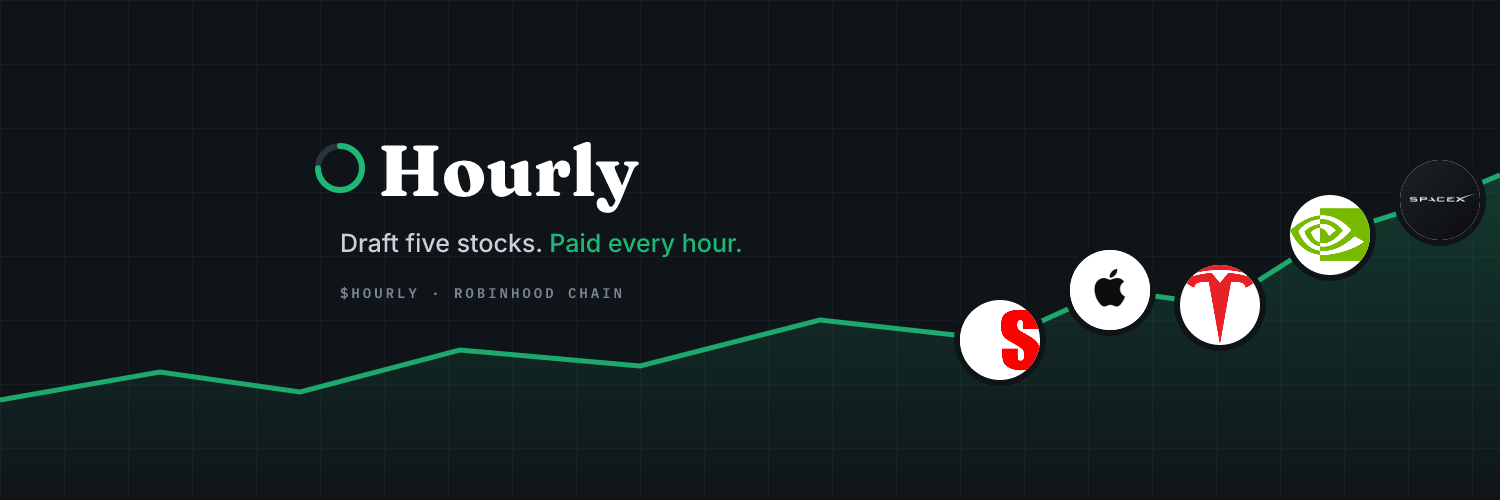
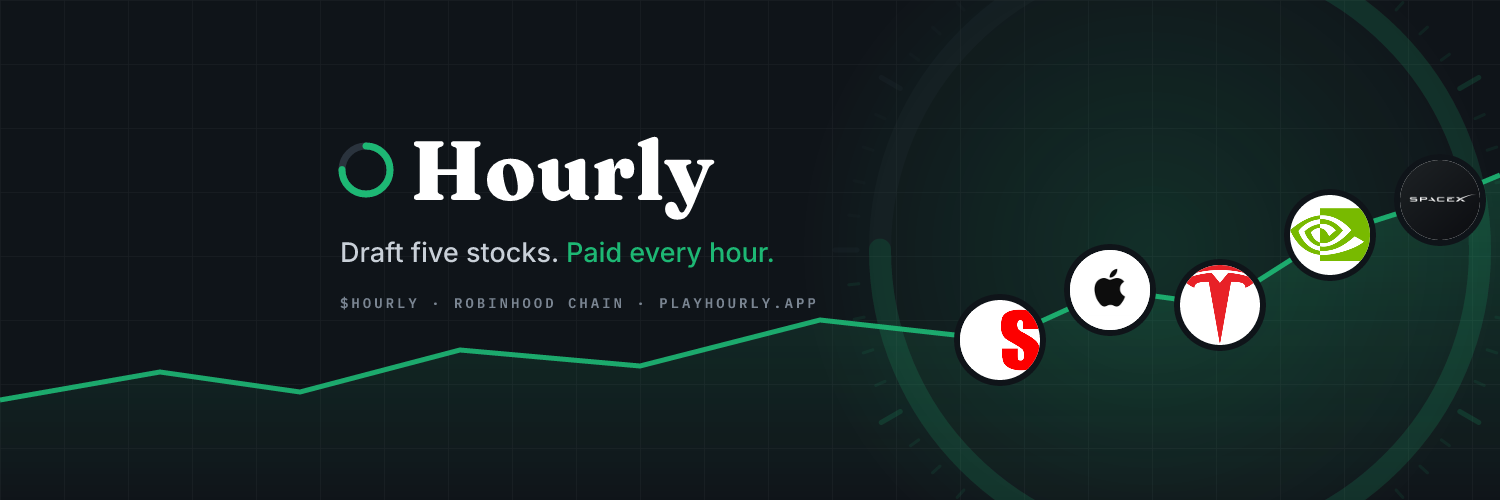
playhourly.app domain, Season one numbers, new Hourly marks

diff --git a/index.html b/index.html
@@ -8,7 +8,7 @@
 <link rel="icon" type="image/png" sizes="192x192" href="favicon-192.png">
 <meta property="og:title" content="Hourly">
 <meta property="og:description" content="Draft five stocks. Beat the chain. Paid every hour. A new round every hour on Robinhood Chain.">
-<meta property="og:image" content="https://fantasystockleague.app/og.png">
+<meta property="og:image" content="https://playhourly.app/og.png">
 <meta name="twitter:card" content="summary_large_image">
 <link rel="preconnect" href="https://fonts.googleapis.com">
 <link rel="preconnect" href="https://fonts.gstatic.com" crossorigin>
@@ -310,10 +310,10 @@
     <div class="board" data-pre>
       <div class="top"><span class="t">Round scoreboard</span><span class="live"><i></i>Opens at launch</span></div>
       <div class="rows">
-        <div class="cell"><div class="k">Pot</div><div class="v" id="s-pot">—</div></div>
-        <div class="cell"><div class="k">Portfolios in</div><div class="v" id="s-teams">—</div></div>
+        <div class="cell"><div class="k">Round 1 pot, seeded</div><div class="v" id="s-pot">100k</div></div>
+        <div class="cell"><div class="k">Portfolios in</div><div class="v" id="s-teams">0</div></div>
         <div class="cell next"><div class="ring"><svg width="64" height="64" viewBox="0 0 64 64"><circle class="bg" cx="32" cy="32" r="27"/><circle class="fg" id="ring-fg" cx="32" cy="32" r="27" stroke-dasharray="169.6" stroke-dashoffset="169.6"/></svg></div><div><div class="k">Next open</div><div class="v" id="s-next">--:--</div></div></div>
-        <div class="cell"><div class="k">Rounds paid</div><div class="v" id="s-paid">—</div></div>
+        <div class="cell"><div class="k">Rounds paid</div><div class="v" id="s-paid">0</div></div>
       </div>
       <p class="foot">Rounds run 24/7 because the pools never close. Scores come from Robinhood Chain pool prices. Every payout is a public transaction.</p>
     </div>
@@ -398,7 +398,7 @@
       <div class="rule"><div class="n">5</div><div><h3>Locked means locked</h3><p>Once a round opens, no swaps. Enter after :00 and you're in the next round, not this one. Ties go to the portfolio that entered first.</p></div></div>
       <div class="rule"><div class="n">6</div><div><h3>Everything is checkable</h3><p>The prize wallet is public, so the pot is visible all round. The scoring code is public, so anyone can rerun a round and get the same table. Payouts are automatic and every one is a transaction link, not a promise.</p></div></div>
     </div>
-    <p class="muted" style="margin-top:56px;font-size:14px;max-width:720px">Not available to US persons, in line with the stock tokens Hourly is scored on. Entry price and holder threshold are posted before rounds open and don't change mid-round.</p>
+    <p class="muted" style="margin-top:56px;font-size:14px;max-width:720px">Not available to US persons, in line with the stock tokens Hourly is scored on. Entry price and holder threshold are fixed for Season one and don't change mid-round.</p>
   </div>
 </section>
 
@@ -446,7 +446,15 @@
         <div class="f"><div class="pc">10%</div><p><b>Buyback.</b> Buys HOURLY from the pool. Bought tokens seed future pots or are burned, and which one is posted daily.</p></div>
         <div class="f"><div class="pc">5%</div><p><b>Hourly.</b> Keeps the scoring engine and this site running.</p></div>
       </div>
-      <p class="muted" style="margin-top:18px;font-size:14px">Proposed split for Season one. Final numbers are published before the first round opens and don't change without notice.</p>
+      <div class="eyebrow" style="margin-top:34px">Season one numbers</div>
+      <div class="flow" style="margin-top:0">
+        <div class="f"><div class="pc" style="font-size:26px">1B</div><p><b>Total supply.</b> 1,000,000,000 $HOURLY, all on Pons at launch. Liquidity locked forever.</p></div>
+        <div class="f"><div class="pc" style="font-size:26px">3%</div><p><b>Reserve.</b> 30,000,000 bought in the launch transaction, locked on chain for three months, used only to seed pots.</p></div>
+        <div class="f"><div class="pc" style="font-size:26px">100k</div><p><b>Seed per round.</b> 100,000 $HOURLY added to each of the first 24 pots, so round one pays before anyone has entered.</p></div>
+        <div class="f"><div class="pc" style="font-size:26px">2,500</div><p><b>Entry.</b> 2,500 $HOURLY per portfolio. Enter as many as you like.</p></div>
+        <div class="f"><div class="pc" style="font-size:26px">250k</div><p><b>Holder threshold.</b> Hold 250,000 $HOURLY and one portfolio an hour is free.</p></div>
+      </div>
+      <p class="muted" style="margin-top:18px;font-size:14px">Fixed for Season one. Any change is announced a full day before it takes effect.</p>
     </div>
   </div>
 </section>

diff --git a/brand/x-profile.md b/brand/x-profile.md
@@ -14,7 +14,7 @@ Hourly portfolio rounds on Robinhood Chain, scored by on-chain prices. $HOURLY
 Robinhood Chain
 
 ## Website field
-https://fantasy-stock-league-delta.vercel.app   (swap to the .app/.xyz domain once it is connected)
+https://playhourly.app   (swap to the .app/.xyz domain once it is connected)
 
 ## Profile picture
 brand/pfp.png  (800x800, upload as is; X crops it to a circle, the F stays centered)

diff --git a/brand/thread.md b/brand/thread.md
@@ -38,6 +38,6 @@ Where every entry goes.
 8/  (image: thread-8.png)
 Live now, no wallet needed.
 
-fantasystockleague.app
+playhourly.app
 
 CA and first round time will be posted here.
